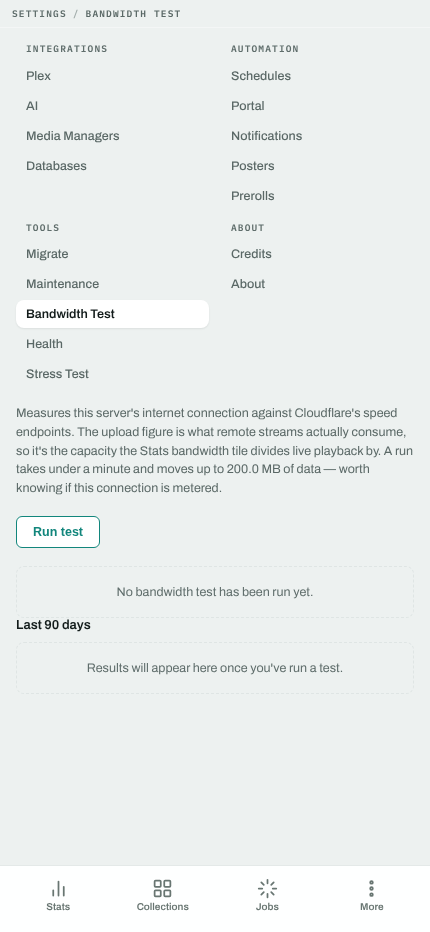
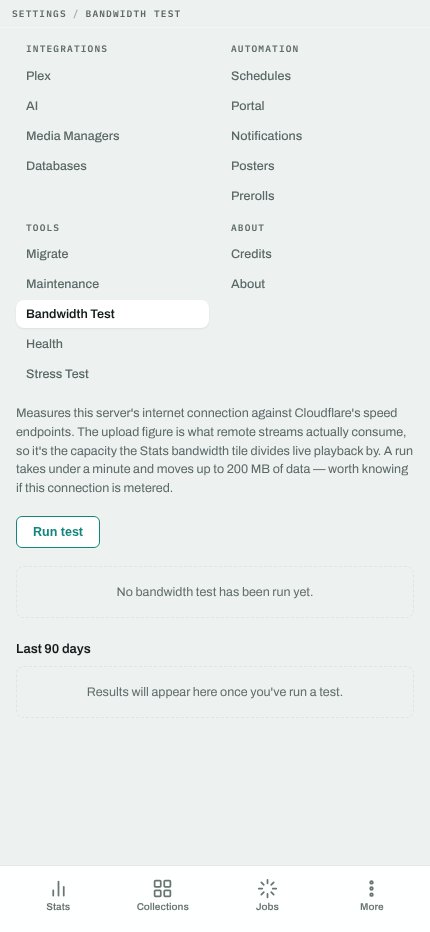
fix(web): spacing and copy nits on the Bandwidth Test page
The "Last 90 days" heading had no top margin, so it sat flush against the
latest-result block above it and read as that block's caption rather than
as the label for the chart below.

The data ceiling was rendered with formatFileSize, which gives "200.0 MB".
That decimal is right for the bytes a run actually moved — a measurement
— but here the number is a limit someone is being asked to accept before
clicking, and the extra digit implies a precision it doesn't have.

Changed region(s): [[0.0302, 0.6534, 0.786, 0.7468], [0.0605, 0.4979, 0.514, 0.529], [0.5744, 0.4979, 0.9674, 0.529]]

diff --git a/apps/web/src/pages/Settings/SettingsBandwidth.tsx b/apps/web/src/pages/Settings/SettingsBandwidth.tsx
@@ -22,6 +22,18 @@ const JOB_ID = "bandwidth-test";
  */
 const COOLDOWN_MS = 15 * 60 * 1000;
 
+/**
+ * The ceiling, in whole megabytes.
+ *
+ * `formatFileSize` is right for the bytes a run actually moved — that's a
+ * measurement, and its decimal place is real. Here the number is a limit
+ * someone is being asked to accept before clicking, and "200.0 MB" implies a
+ * precision the figure doesn't have.
+ */
+function formatCeiling(bytes: number | undefined): string {
+  return bytes ? `${Math.round(bytes / 1_000_000)} MB` : "a few hundred MB";
+}
+
 function ResultCard({ label, value, sub }: { label: string; value: string; sub?: string | null }) {
   return (
     <div className={styles.resultCard}>
@@ -95,7 +107,7 @@ export default function SettingsBandwidth() {
       <p className={styles.intro}>
         Measures this server's internet connection against Cloudflare's speed endpoints. The upload figure is what
         remote streams actually consume, so it's the capacity the Stats bandwidth tile divides live playback by. A run
-        takes under a minute and moves up to {formatFileSize(maxTransferQuery.data)} of data — worth knowing if this
+        takes under a minute and moves up to {formatCeiling(maxTransferQuery.data)} of data — worth knowing if this
         connection is metered.
       </p>
 

diff --git a/apps/web/src/pages/Settings/SettingsBandwidth.module.css b/apps/web/src/pages/Settings/SettingsBandwidth.module.css
@@ -141,11 +141,14 @@
 
 /* ─── History ─────────────────────────────────────────────────────────────── */
 
+/* The top margin is load-bearing: with `margin-top: 0` this heading sits flush
+ * against whatever block precedes it and reads as that block's caption rather
+ * than as the label for the chart below it. */
 .sectionTitle {
   font-size: 13px;
   font-weight: 600;
   color: var(--text-primary);
-  margin: 0 0 10px;
+  margin: 24px 0 10px;
 }
 
 .chart {
